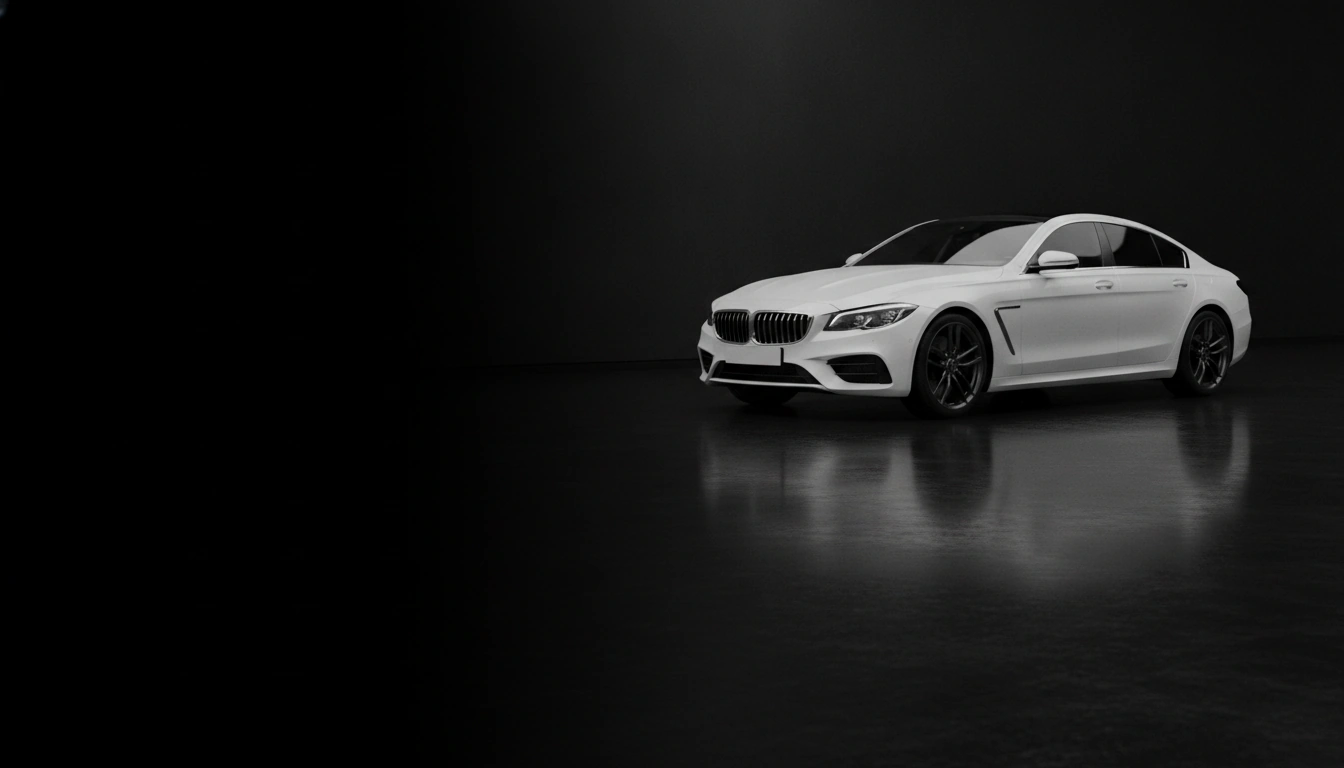
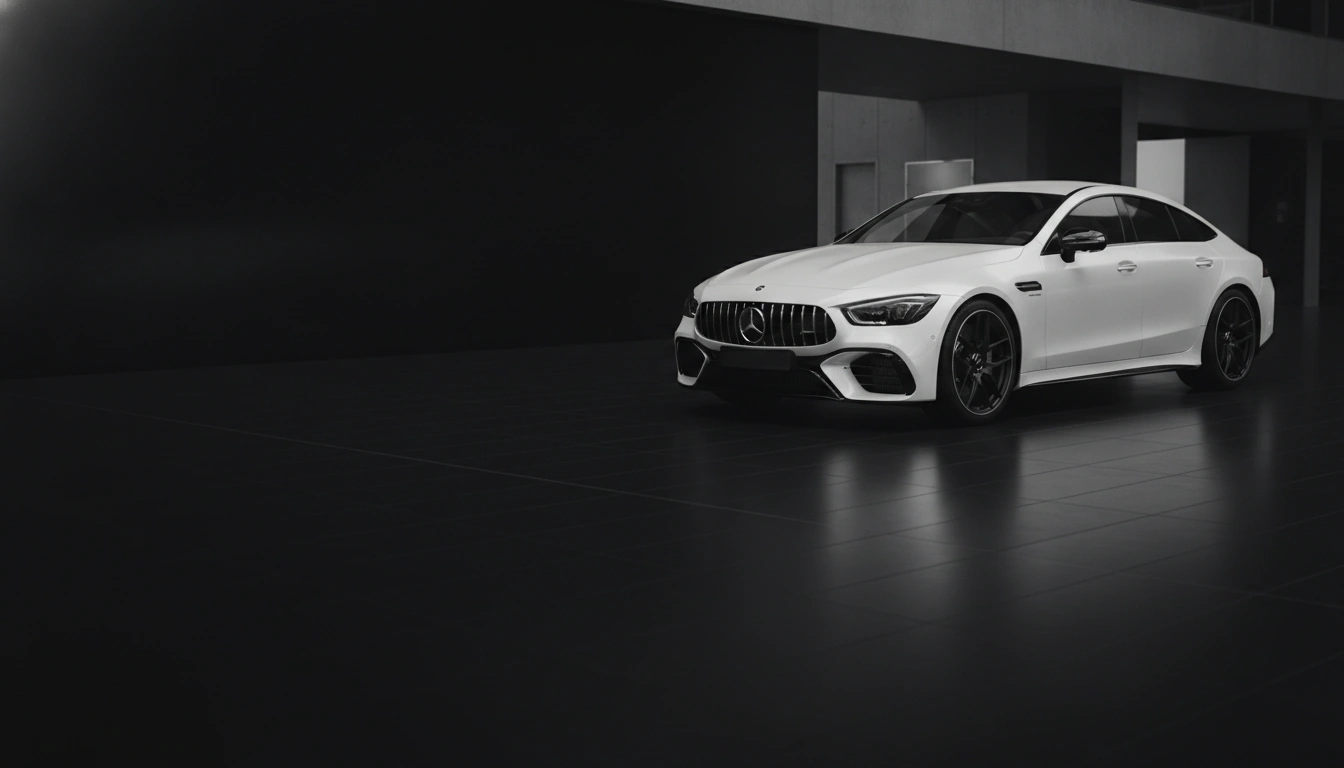
fix: AMG home hero, own vehicles hero, card order, real paint swatches
Three tracks, disjoint file sets, run in parallel.

Images. hero-home's car read as a generic fake BMW — no badge and
proportions matching no real model — so its description now names a
Mercedes-AMG GT four-door coupe, as the wireframe draws it. Only the
subject changed; the composition clause that keeps the left half empty
dark floor is byte-identical, because that clause is the reason the
headline has anywhere to sit. A new hero-vehicles slot gives /vehicles
its own frame: the page had been borrowing home-hero.webp, so two pages
one click apart opened on the same photograph.

VehicleCard. The price and the View vehicle button shared a row; the
button is now full width beneath the price. That also removes an old
fragility — whether the two shared a line came down to a few pixels of
label width, so a card with a long price label stacked while its
neighbours stayed inline.

SwatchRow. Paint names were snapped to the nearest of the nine UI
tokens, so obsidian black, midnight black, carbon black and jet black
all resolved to ink and rendered as identical chips — a swatch that
changed nothing when clicked. Each paint now carries its own value.
These are asset colours and are exempt from the no-raw-hex rule, the
same way the logo SVG carries its own blue; the exemption is documented
at the field so it is not "fixed" back.

Vehicles page. The hero is 536px rather than ~480, measured off the
reference, and carries the new photograph. Because that photograph is
[…]

diff --git a/src/pages/Vehicles.tsx b/src/pages/Vehicles.tsx
@@ -163,60 +163,101 @@ export function Vehicles() {
 
   return (
     <>
-      {/* ── Hero ─────────────────────────────────────────────────────── */}
-      <Section tone="ink" spacing="none" contained={false}>
-        <div className="relative overflow-hidden">
-          {/*
-            The photograph is nearly black down its left side, which is where
-            the copy sits from 1024px up — so it can run close to full strength
-            there. Below that the crop swings across the white car, so it is
-            held at 30%: white on the resulting ground is 7.8:1 and the border
-            token is 5.9:1, where an untouched image would fail both.
-          */}
-          <img
-            src="/images/hero/home-hero.webp"
-            alt=""
-            width={1344}
-            height={768}
-            fetchPriority="high"
-            decoding="async"
-            className="absolute inset-0 size-full object-cover opacity-30 lg:opacity-90"
-          />
+      {/* ── Hero ─────────────────────────────────────────────────────────
+          A photograph shot for this band: a dark saloon in the right half on
+          a pale plaza, the left half open ground. It used to borrow
+          home-hero.webp, which is a near-black showroom — two pages one click
+          apart opening on the same frame, and a dark ground that forced white
+          type. This one is bright overcast daylight, so the band is white and
+          every piece of type on it is ink. White measures 1.4:1 on this
+          photograph and the border token barely more, so the eyebrow, the
+          support line and the secondary button all changed colour with it.
 
-          <div className="relative pt-nav-clear pb-section-sm lg:pb-section">
-            <Container>
-              <div className="max-w-xl">
-                <p className="font-body text-label text-border uppercase">
-                  {VEHICLES_PAGE.eyebrow}
-                </p>
-                <h1 className="mt-4 font-display text-display-sm text-bg lg:text-display">
-                  {VEHICLES_PAGE.heading}
-                </h1>
-                <p className="mt-5 font-body text-body-lg-sm text-border lg:text-body-lg">
-                  {VEHICLES_PAGE.support}
-                </p>
-                <div className="mt-8 flex flex-wrap gap-3">
-                  <Button href="#available">
-                    {VEHICLES_PAGE.primaryCta}
-                    <Icon name="arrow-right" size={18} />
-                  </Button>
-                  <Button to="/book-a-meeting" variant="dark-section">
-                    {VEHICLES_PAGE.secondaryCta}
-                  </Button>
-                </div>
+          Three things keep ink legal here, and each one was measured on the
+          rendered page against the real glyph pixels — the background under
+          the ink itself, not the line box, which is far wider than the type
+          and charges it for ground no glyph ever touches.
+
+          One: the copy column is capped at 420px rather than 576px, the same
+          measure the detail heroes use. Two: the block is pinned to the
+          bottom of the band, which is also where the wireframe puts it — its
+          buttons finish 104px above the image edge. That matters because a
+          strip of distant skyline runs across the middle of the frame at
+          about 53% of its height and drops ink to 2.9:1; bottom-pinning drops
+          the whole column clear of it at every width from 1024 to 1600.
+          Three: a flat 25% white veil from 1600px only. Past about 1600 the
+          centred 1200px measure has pushed the copy far enough right that the
+          skyline runs under it whatever the vertical alignment, and no
+          arrangement of this copy inside a 536px band clears it — the block
+          would need a band nearer 780px tall to sit wholly above or below the
+          strip. The veil is flat rather than a gradient, and Home already
+          carries one on its own hero.
+
+          It is deliberately NOT on at 1024–1599, where bottom-pinning alone
+          already gives zero failing glyph pixels. A white overlay is exactly
+          what washed the car out of the detail hero and got that band
+          rebuilt; running it at every width to solve a problem that only
+          exists above 1600 would spend the photograph to buy nothing. Scoped
+          this way the frame is clean at every width anyone reviews it at, and
+          the veil only appears where the arithmetic leaves no alternative.
+
+          Two real layouts, one img and one fetch. From 1024px the photograph
+          fills the band and the copy lies over its left half at the height
+          the wireframe draws — 536px, where the band used to run about 480.
+          Below that the same file is a 16:9 block in the flow with the copy
+          beneath it on white: at 390px there is no left half to sit on, the
+          veil is off, and ink on white measures 19.8:1. */}
+      <section className="relative overflow-hidden bg-bg pt-nav-clear lg:pt-0">
+        <img
+          src="/images/hero/vehicles-hero.webp"
+          alt=""
+          width={1344}
+          height={768}
+          fetchPriority="high"
+          decoding="async"
+          className="aspect-video w-full object-cover lg:absolute lg:inset-0 lg:aspect-auto lg:size-full"
+        />
+        <div aria-hidden className="absolute inset-0 hidden bg-bg/25 min-[1600px]:block" />
+
+        <Container>
+          <div className="relative pt-8 pb-section-tight lg:flex lg:min-h-[536px] lg:flex-col lg:justify-end lg:pt-nav-clear lg:pb-[104px]">
+            <div className="max-w-xl lg:max-w-[420px]">
+              <p className="font-body text-label text-ink uppercase">
+                {VEHICLES_PAGE.eyebrow}
+              </p>
+              <h1 className="mt-4 font-display text-display-sm text-ink lg:text-display">
+                {VEHICLES_PAGE.heading}
+              </h1>
+              <p className="mt-5 font-body text-body-lg-sm text-ink lg:text-body-lg">
+                {VEHICLES_PAGE.support}
+              </p>
+              <div className="mt-8 flex flex-wrap gap-3">
+                <Button href="#available">
+                  {VEHICLES_PAGE.primaryCta}
+                  <Icon name="arrow-right" size={18} />
+                </Button>
+                <Button to="/book-a-meeting" variant="secondary">
+                  {VEHICLES_PAGE.secondaryCta}
+                </Button>
               </div>
-            </Container>
+            </div>
           </div>
-        </div>
-      </Section>
+        </Container>
+      </section>
 
       {/* ── Filters ──────────────────────────────────────────────────────
-          The card laps the bottom of the hero the way the wireframe draws it.
+          The card laps the bottom of the hero the way the wireframe draws it
+          — 44px of a 139px card in the reference, which is close to the third
+          the negative margin leaves here once the wrapper padding is paid.
           The padding on the wrapper is what stops the negative margin
-          collapsing through and dragging the white band up with it; below
-          768px the offset is absent and the card sits in normal flow. */}
+          collapsing through and dragging the white band up with it.
+
+          The lap starts at 1024px rather than 768px now: below that the
+          photograph is a block in the flow with the copy under it, so there
+          is no image edge left to lap — the card would have pulled up over
+          the hero's own buttons instead. */}
       <div className="bg-bg pt-section-tight">
-        <div className="relative z-10 md:-mt-[104px]">
+        <div className="relative z-10 lg:-mt-[104px]">
           <Container>
             <FilterBar
               value={filters}
@@ -252,11 +293,18 @@ export function Vehicles() {
       </Section>
 
       {/* ── Available vehicles ───────────────────────────────────────────
-          The inventory band is the light grey one. Every piece of metadata in
-          it lives on a white card: muted on #F3F4F6 is 4.49:1 and fails by a
-          hundredth (section 4), so nothing secondary is set on the band
-          itself. */}
-      <Section tone="surface" id="available">
+          The band is white, not grey. The wireframe runs one uninterrupted
+          white page from under the hero all the way to the footer and carries
+          the white / light-grey / obsidian rhythm in inset panels instead —
+          grey body-style tiles, grey vehicle cards, the grey value band, the
+          obsidian showroom card. A grey band here read as a second ground
+          behind cards that already have one.
+
+          It also settles the contrast question rather than working around it:
+          muted on #F3F4F6 is 4.49:1 and fails by a hundredth (section 4), so
+          on the old grey band nothing secondary could touch the band itself.
+          On white, muted is 4.94:1 and legal everywhere in this section. */}
+      <Section tone="white" id="available">
         <div className="flex flex-col gap-2">
           <h2 className="font-display text-h2-sm text-ink lg:text-h2">
             {VEHICLES_PAGE.available.heading}
@@ -327,12 +375,14 @@ export function Vehicles() {
           <ul className="mt-8 grid gap-5 sm:grid-cols-2 lg:grid-cols-4">
             {visible.map((vehicle) => (
               <li key={vehicle.slug}>
-                {/* The wireframe tints its leading card and this page does not
-                    pass `highlight`. The tint composites to #E6ECF7 over this
-                    band, where the card's own muted metadata measures 4.16:1
-                    and fails AA — it only clears on a white ground, at 4.55:1.
-                    The grey inventory band is the wireframe's, so the tint is
-                    what goes rather than the band. */}
+                {/* The wireframe tints its leading card and this page still
+                    does not pass `highlight`. The reason used to be contrast:
+                    over the old grey band the tint composited to #E6ECF7 and
+                    the card's muted metadata fell to 4.16:1. That objection
+                    is gone — the band is white, the tint composites to
+                    #F1F5FF, and a tinted card sets its metadata in ink
+                    anyway. Turning it on is a live decision, not a blocked
+                    one; Home already passes `highlight={index === 0}`. */}
                 <VehicleCard vehicle={vehicle} />
               </li>
             ))}

diff --git a/src/components/SwatchRow.tsx b/src/components/SwatchRow.tsx
@@ -1,4 +1,5 @@
 import { VEHICLE_DETAIL } from '../data/copy'
+import { parseColor, relativeLuminance } from '../lib/contrast'
 
 interface SwatchRowProps {
   colours: readonly string[]
@@ -7,21 +8,103 @@ interface SwatchRowProps {
 }
 
 /**
- * Paint has to be shown as paint, and the palette holds nine tokens, none of
- * which is a car colour. Each swatch is therefore mapped to the token that
- * stands closest to it — never a raw hex (section 4). Tailwind only sees
- * complete class strings, so this is an explicit map rather than anything
- * built by interpolation.
+ * ── The one place in this codebase that writes a colour value by hand ──
  *
- * White gets a muted ring because a white chip on a white card would
- * otherwise have no edge at all.
+ * Section 4 says never a raw hex in a component, and everywhere else that
+ * holds. These sixteen values are the documented exception, on the same
+ * grounds as src/assets/logo-full.svg carrying its own #3A8EFC rather than a
+ * palette token: they are ASSET colours, not UI colours. A manufacturer's
+ * paint is a fact about the car, the way the logo blue is a fact about the
+ * logo. Neither is a design decision this palette gets to make, and neither
+ * changes when the palette changes.
+ *
+ * The previous version snapped every paint to the nearest of the nine UI
+ * tokens, which was rule-abiding and useless: obsidian black, midnight
+ * black, carbon black metallic and jet black metallic all resolved to `ink`
+ * and rendered as four identical chips. A control that looks the same in
+ * every state is not a control. Hence the map below.
+ *
+ * Do not "fix" these back to tokens. Adding a paint means adding a line here.
+ *
+ * The values are chosen for separation as much as for likeness: every pair
+ * of paints that can appear in the same vehicle's row is at least 7.7 CIE76
+ * ΔE apart, and no two of the sixteen are closer than 5.2. Nudge one and
+ * check it still reads as a different chip from its neighbours.
  */
-function chipClass(colour: string) {
-  const name = colour.toLowerCase()
-  if (name.includes('white')) return 'bg-bg border-muted'
-  if (name.includes('silver')) return 'bg-sold border-sold'
-  if (name.includes('grey') || name.includes('gray')) return 'bg-graphite border-graphite'
-  return 'bg-ink border-ink'
+const PAINT: Record<string, string> = {
+  // Whites — separated by cast, not by lightness, because there is barely
+  // any lightness left to separate them with.
+  'polar white': '#FEFEFC',
+  'brilliant white': '#E9F1F9', // cool
+  'mineral white': '#E9E1D0', // warm
+  'glacier white': '#D6E3E1', // cool, faintly green
+
+  silver: '#C0C6C9',
+
+  // Greys, light to dark.
+  'agate grey metallic': '#8E9291',
+  'volcano grey metallic': '#75786C', // olive cast
+  'daytona grey': '#56616B', // blue cast
+  'matte graphite grey': '#4A4C4E',
+  'graphite grey': '#383D41',
+
+  // Blacks. Six of them, so the blue-cast ones lean into the blue and the
+  // neutral ones are spaced out along lightness instead.
+  'mythos black metallic': '#2B2C2E',
+  'carbon black metallic': '#16283C', // blue
+  'obsidian black metallic': '#1E211F',
+  'midnight black': '#0A1630', // deep blue
+  'jet black metallic': '#111316',
+  'obsidian black': '#030304',
+}
+
+/**
+ * An unmapped paint gets the `available` green — not a neutral, deliberately.
+ * A missing paint that fell back to a grey would look like a plausible car
+ * and ship unnoticed; a green chip in a row of blacks and whites cannot be
+ * mistaken for anything but a gap in the map. The warning names the paint so
+ * it is greppable without opening the page; it is behind import.meta.env.DEV,
+ * which is a literal at build time, so the production render is pure and the
+ * React Compiler sees no side effect to reason about.
+ */
+const UNMAPPED = 'var(--color-available)'
+const warned = new Set<string>()
+
+function paintValue(colour: string): string {
+  const value = PAINT[colour.toLowerCase()]
+  if (value) return value
+  if (import.meta.env.DEV && !warned.has(colour)) {
+    warned.add(colour)
+    console.warn(`SwatchRow: no paint value for "${colour}" — [REPLACE] in PAINT.`)
+  }
+  return UNMAPPED
+}
+
+/**
+ * A chip is a filled circle on a white card, so a near-white paint has no
+ * edge of its own and needs one drawn. Section 4: a border that identifies a
+ * control is muted, not the decorative border token.
+ *
+ * The cut is the point where the chip stops separating itself from the card —
+ * 3:1 against white, which is relative luminance 0.30. Above it the chip is
+ * pale and takes the muted edge; below it the fill already is the edge and
+ * the rim is ink so it tightens rather than lightens. Derived from the value
+ * rather than listed per paint, so it cannot drift out of step with the map.
+ */
+const PALE_LUMINANCE = 1.05 / 3 - 0.05
+
+const EDGE: Record<string, string> = Object.fromEntries(
+  Object.entries(PAINT).map(([name, value]) => {
+    const rgb = parseColor(value)
+    const pale = rgb !== null && relativeLuminance(rgb) > PALE_LUMINANCE
+    return [name, pale ? 'border-muted' : 'border-ink']
+  }),
+)
+
+function edgeClass(colour: string): string {
+  // The unmapped green sits mid-scale and reads fine against white; ink keeps
+  // its rim consistent with every other dark chip.
+  return EDGE[colour.toLowerCase()] ?? 'border-ink'
 }
 
 export function SwatchRow({ colours, selected, onSelect }: SwatchRowProps) {
@@ -37,15 +120,24 @@ export function SwatchRow({ colours, selected, onSelect }: SwatchRowProps) {
               type="button"
               onClick={() => onSelect(index)}
               aria-pressed={index === selected}
+              // The chip carries no text, so the paint name is the entire
+              // accessible name. Title gives the same thing to a mouse.
               aria-label={colour}
               title={colour}
               // The selection ring is ink, so it reads on white without
               // relying on accent, which cannot carry meaning on this ground.
+              // ring-offset-2 is what keeps it visible on a black chip: the
+              // ring never touches the fill, it sits 2px out on the white
+              // card, where ink measures 20.6:1 even against obsidian black.
               className={[
                 'block size-9 rounded-pill border transition-shadow',
-                chipClass(colour),
+                edgeClass(colour),
                 index === selected ? 'ring-2 ring-ink ring-offset-2' : '',
               ].join(' ')}
+              // The exempt value (see PAINT). Tailwind cannot build a class
+              // from a runtime string and section 2 forbids interpolating one,
+              // so the fill is applied as a style, not a utility.
+              style={{ backgroundColor: paintValue(colour) }}
             />
           </li>
         ))}

diff --git a/src/components/VehicleCard.tsx b/src/components/VehicleCard.tsx
@@ -88,17 +88,25 @@ export function VehicleCard({ vehicle, highlight = false }: VehicleCardProps) {
           {vehicle.year} · {vehicle.specs.fuel} · {vehicle.specs.transmission}
         </p>
 
-        {/* No wrap. With it, whether the price and the button shared a line
-            came down to a few pixels of label width, so one card in a row
-            would stack while its neighbours did not. The button already
-            refuses to wrap; the price is what gives. */}
-        <div className="mt-auto flex items-center justify-between gap-3 pt-2">
-          <p className="min-w-0 font-display text-h3-sm text-ink">
+        {/* Price on its own line, action full width beneath it — the order
+            home-desktop-full.png sets for the featured card.
+
+            The two wireframes disagree here: vehicles-desktop.png puts the
+            price and a small button side by side on one row. That version was
+            what shipped first, and it had a standing problem — whether the
+            two fitted on one line came down to a few pixels of price label
+            width, so "Contact for Price" would stack a card while its
+            neighbours stayed inline and the row lost its rhythm. Stacking
+            them deliberately settles that: the price cannot collide with the
+            button, and the button gets a target the full width of the card,
+            which is also the larger tap target at 390px. */}
+        <div className="mt-auto flex flex-col gap-3 pt-2">
+          <p className="font-display text-h3-sm text-ink">
             {vehicle.price === null
               ? VEHICLE_DETAIL.contactForPrice
               : money.format(vehicle.price)}
           </p>
-          <Button to={href} size="sm" variant="secondary" shape="control">
+          <Button to={href} size="sm" variant="secondary" shape="control" fullWidth>
             {CARD.viewVehicle}
           </Button>
         </div>
